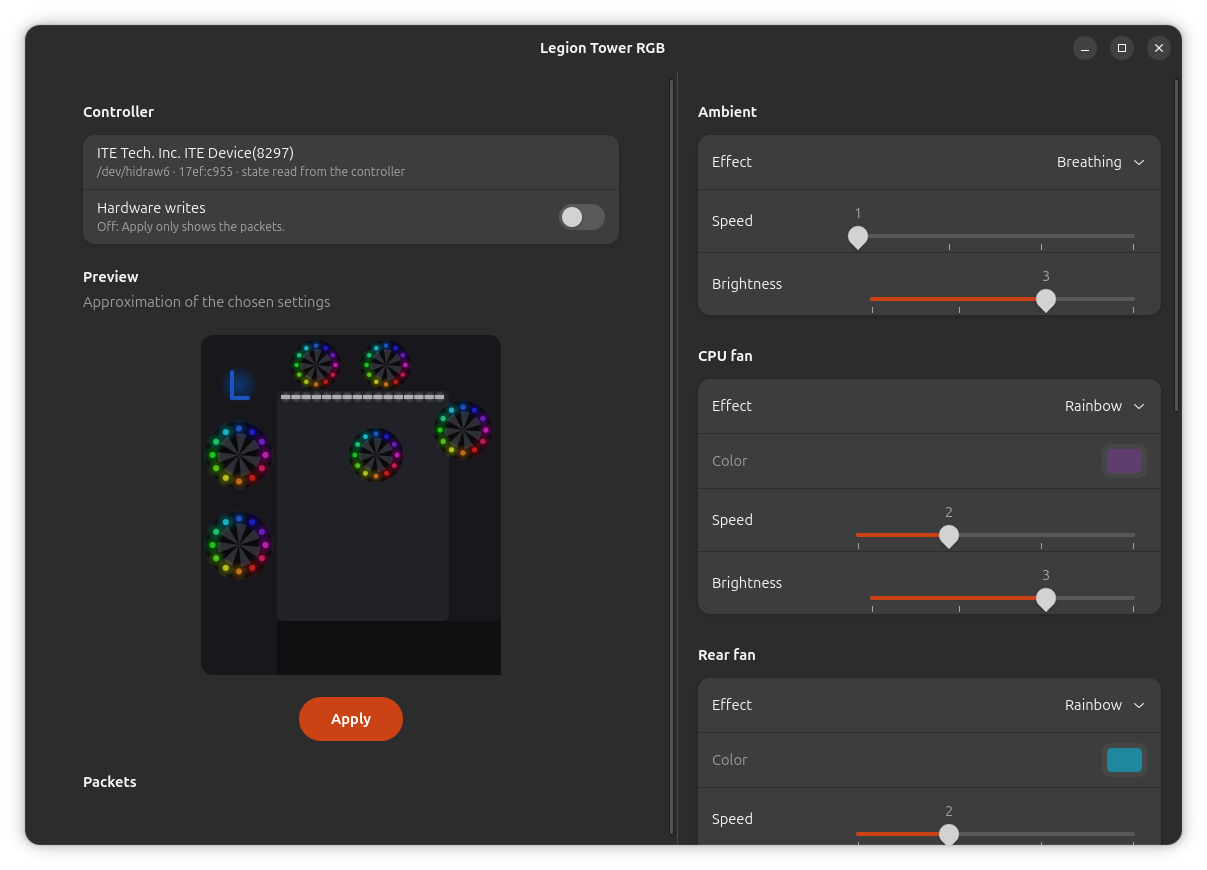
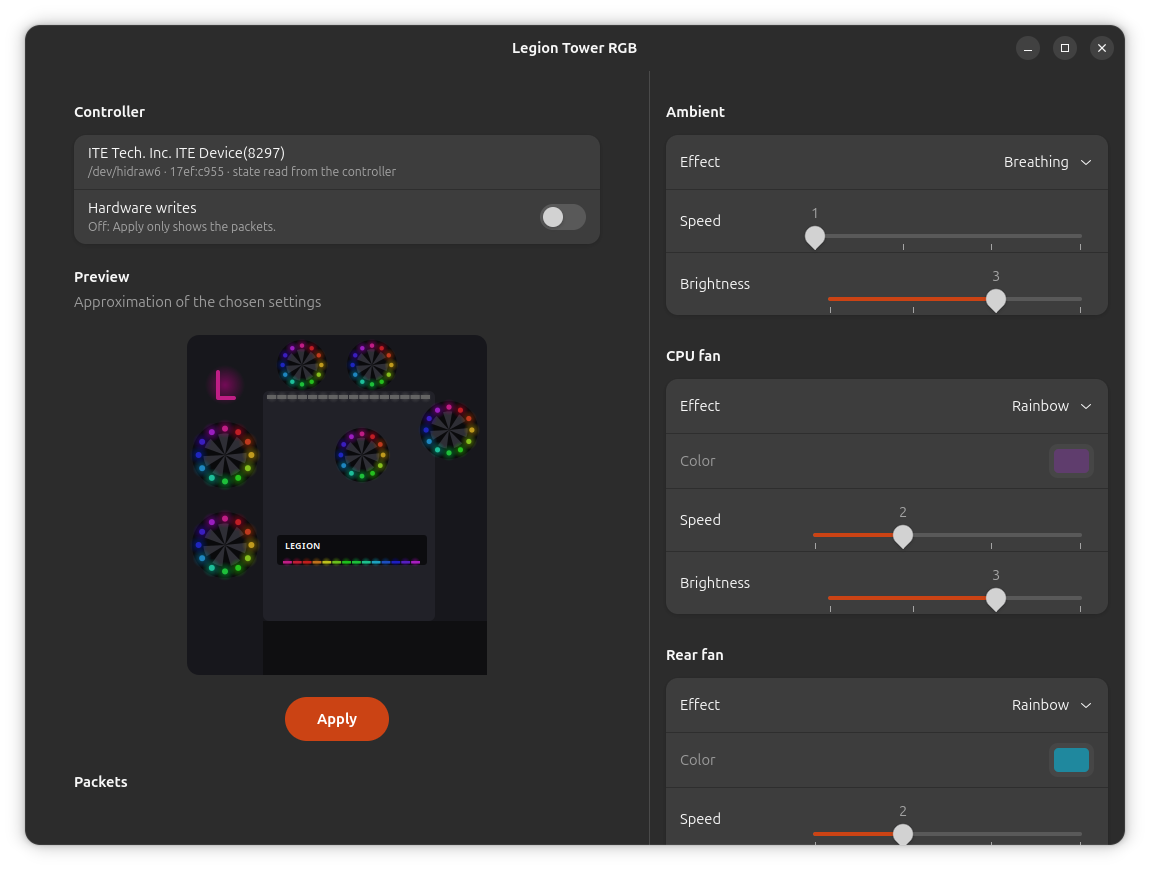
Release 0.2.0: .deb package, new-model issue template, report command
- packaging/build-deb.sh builds an architecture-independent .deb that
  installs the udev rule and the desktop entry
- New model report issue template and docs/NEW_MODEL.md (what to
  collect, how to capture Vantage over USB)
- 'report' CLI command: hardware facts for a report, sysfs only
- Updated screenshot with the GPU in the case preview

diff --git a/legion_tower_rgb/cli.py b/legion_tower_rgb/cli.py
@@ -62,6 +62,39 @@ def cmd_gpu(args) -> int:
     return 0
 
 
+def cmd_report(_args) -> int:
+    """Hardware facts for a new-model report. Reads sysfs only: no device is opened."""
+    from pathlib import Path
+
+    from . import __version__, hidraw
+
+    def read(path: str) -> str:
+        try:
+            return Path(path).read_text().strip()
+        except OSError:
+            return "?"
+
+    print(f"legion-tower-rgb {__version__}")
+    print("== System")
+    for f in ("sys_vendor", "product_name", "product_version", "board_name", "bios_version"):
+        print(f"{f}: {read('/sys/class/dmi/id/' + f)}")
+    print("== Lenovo / ITE HID devices")
+    for i in hidraw.list_hidraw():
+        if i.vendor_id in (0x17EF, 0x048D):
+            reports = ", ".join(f"0x{r:02x} ({n} B)" for r, n in hidraw.feature_reports(i.descriptor).items())
+            print(f"{i.path} {i.vendor_id:04x}:{i.product_id:04x} {i.name}")
+            print(f"  feature reports: {reports or 'none'}")
+            print(f"  report descriptor: {i.descriptor.hex()}")
+    print("== GPUs")
+    for dev in sorted(Path("/sys/bus/pci/devices").iterdir()):
+        if read(str(dev / "class")).startswith("0x03"):
+            ids = [read(str(dev / f))[2:] for f in ("vendor", "device", "subsystem_vendor", "subsystem_device")]
+            print(f"{dev.name} {ids[0]}:{ids[1]} subsystem {ids[2]}:{ids[3]}")
+    adapter = gpu.find_adapter()
+    print(f"Lenovo NVIDIA I2C adapter: {adapter or 'none'}")
+    return 0
+
+
 def _target(key: str) -> protocol.Panel:
     """A panel, or a single zone wrapped as a one-zone panel."""
     if key in protocol.PANELS_BY_KEY:
@@ -106,6 +139,8 @@ def main(argv: list[str] | None = None) -> int:
 
     sub.add_parser("detect", help="find the controller (reads sysfs only)").set_defaults(func=cmd_detect)
     sub.add_parser("status", help="read the current state from the controller").set_defaults(func=cmd_status)
+    sub.add_parser("report", help="hardware facts for a new-model report (reads sysfs only)").set_defaults(
+        func=cmd_report)
 
     targets = [p.key for p in protocol.PANELS] + [z.key for z in protocol.ZONES
                                                   if z.key not in protocol.PANELS_BY_KEY] + ["all"]

diff --git a/legion_tower_rgb/__init__.py b/legion_tower_rgb/__init__.py
@@ -1,3 +1,3 @@
 """RGB lighting control for Lenovo Legion Tower desktops on Linux."""
 
-__version__ = "0.1.0"
+__version__ = "0.2.0"

diff --git a/docs/NEW_MODEL.md b/docs/NEW_MODEL.md
@@ -1,0 +1,71 @@
+# Adding a new model
+
+The protocol in this project was mapped on a Legion T5 26ARA8. Other Legion
+Towers very likely use the same ITE controller (`17ef:c955`) with different
+zone IDs and effects, and other Lenovo OEM GeForce cards the same GPU
+controller. Here is what is needed to add one. Nothing below writes to the
+hardware.
+
+## 1. Hardware facts (Linux)
+
+```sh
+legion-tower-rgb-cli report
+```
+
+It reads sysfs only: model, BIOS, the Lenovo/ITE HID devices with their HID
+report descriptors, the GPUs with their PCI subsystem IDs. Paste the output in
+the issue.
+
+## 2. WMI lighting table (Windows)
+
+The firmware lists every light in the WMI class `LENOVO_LIGHTING_INFO_LIST`:
+zone IDs, panel grouping, supported effects (`mode` bit mask) and the command
+bytes. In PowerShell:
+
+```powershell
+Get-CimInstance -Namespace root\WMI -ClassName LENOVO_LIGHTING_INFO_LIST | Format-List *
+```
+
+## 3. USB captures of Lenovo Vantage (Windows)
+
+This is what pins down the exact packets.
+
+1. Install [USBPcap](https://desowin.org/usbpcap/) and
+   [Wireshark](https://www.wireshark.org/), reboot.
+2. Open Vantage on the lighting page.
+3. Start a capture in Wireshark on the USBPcap interface of the root hub
+   (capturing everything is fine; other devices such as the mouse are filtered
+   out later).
+4. Change **one setting at a time**, waiting a couple of seconds between
+   changes, and write down each change in order, for example:
+   ```
+   AMBIENT brightness 4, 3, 2, 1, 2, 3, 4
+   AMBIENT effect off, static, flicker, breath
+   CPU FAN speed 1, 2, 3, 4, 3, 2
+   FRONT FANS color red, green, blue
+   ```
+   One capture per light (or per group of tests) keeps things readable. Going
+   through every effect once on one fan is very useful.
+5. Stop and save as `.pcapng`. In Wireshark, the lighting controller is the
+   device whose descriptor shows `idVendor 0x17ef`, `idProduct 0xc955` (note its
+   number, e.g. `2.4`).
+
+You can check a capture yourself with the reader in this repository:
+
+```sh
+python3 tools/usbpcap_dump.py lights.pcapng 2 4 --reports
+```
+
+It prints every `SET_REPORT` / `GET_REPORT` of that device, grouped in bursts.
+
+## 4. GPU lighting
+
+GPU lighting does not go over USB, so USB captures do not show it. If your
+card is a Lenovo OEM GeForce (`report` shows subsystem `17aa:…`), say so in
+the issue with the effects Vantage or Legion Space offers for it; see
+[GPU.md](GPU.md) for how it works.
+
+## 5. First tests
+
+Once a mapping is proposed, the first writes on a new model are done one at a
+time, with known values only, and checked by eye.

diff --git a/README.md b/README.md
@@ -19,11 +19,25 @@ on Linux, the part Lenovo Vantage handles on Windows. Python, GTK4/libadwaita GU
 
 ## Install
 
+Debian / Ubuntu: download the `.deb` from the
+[releases](https://github.com/codingkoala/legion-tower-rgb/releases) and
+
 ```sh
-sudo apt install python3-gi gir1.2-adw-1
+sudo apt install ./legion-tower-rgb_*_all.deb
+```
+
+It pulls in GTK4/libadwaita and installs the udev rule that gives the desktop
+user access to the lighting controller and the GPU's I2C port.
+
+From source:
+
+```sh
+sudo apt install python3-gi python3-gi-cairo gir1.2-gtk-4.0 gir1.2-adw-1
 pip install --user .
 sudo ./install-udev.sh   # only needed for hardware writes
 ```
+
+Build the package yourself with `packaging/build-deb.sh` (needs only `dpkg-deb`).
 
 ## Usage
 
@@ -31,6 +45,7 @@ sudo ./install-udev.sh   # only needed for hardware writes
 legion-tower-rgb                                         # GUI
 legion-tower-rgb-cli detect                              # reads sysfs only
 legion-tower-rgb-cli status                              # reads the state from the controller
+legion-tower-rgb-cli report                              # hardware facts for a new-model issue
 legion-tower-rgb-cli set all breathing --color 00aaff    # dry run
 legion-tower-rgb-cli set cpu-fan static --write          # really sends
 legion-tower-rgb-cli gpu breathing --color 0000ff --speed 4 --write
@@ -41,6 +56,7 @@ legion-tower-rgb-cli gpu breathing --color 0000ff --speed 4 --write
 - [Feasibility study](docs/FEASIBILITY.md)
 - [Protocol notes](docs/PROTOCOL.md)
 - [GPU lighting](docs/GPU.md)
+- [Adding a new model](docs/NEW_MODEL.md)
 - [Reverse-engineering plan](docs/REVERSE_ENGINEERING.md)
 
 ## Credits
